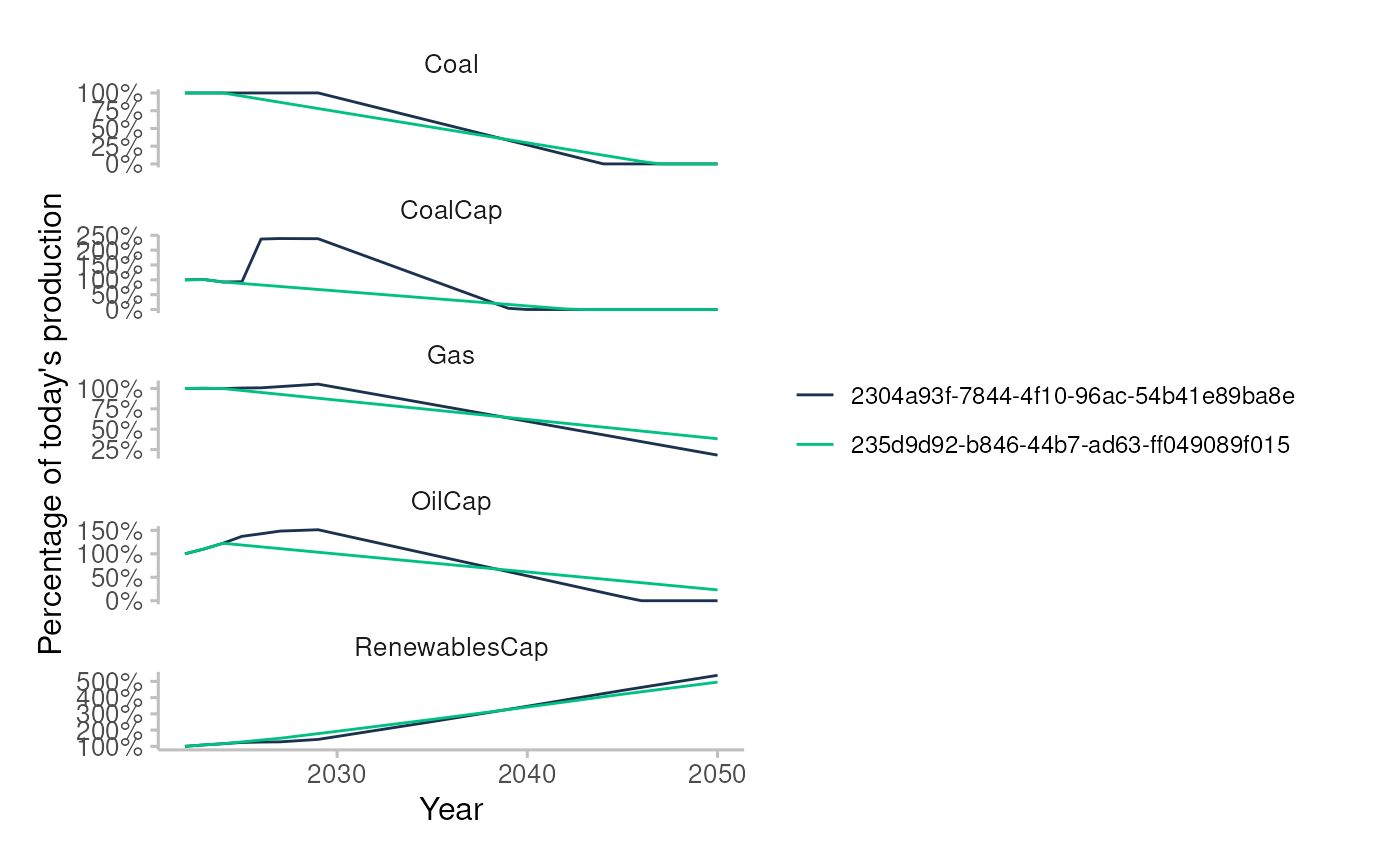
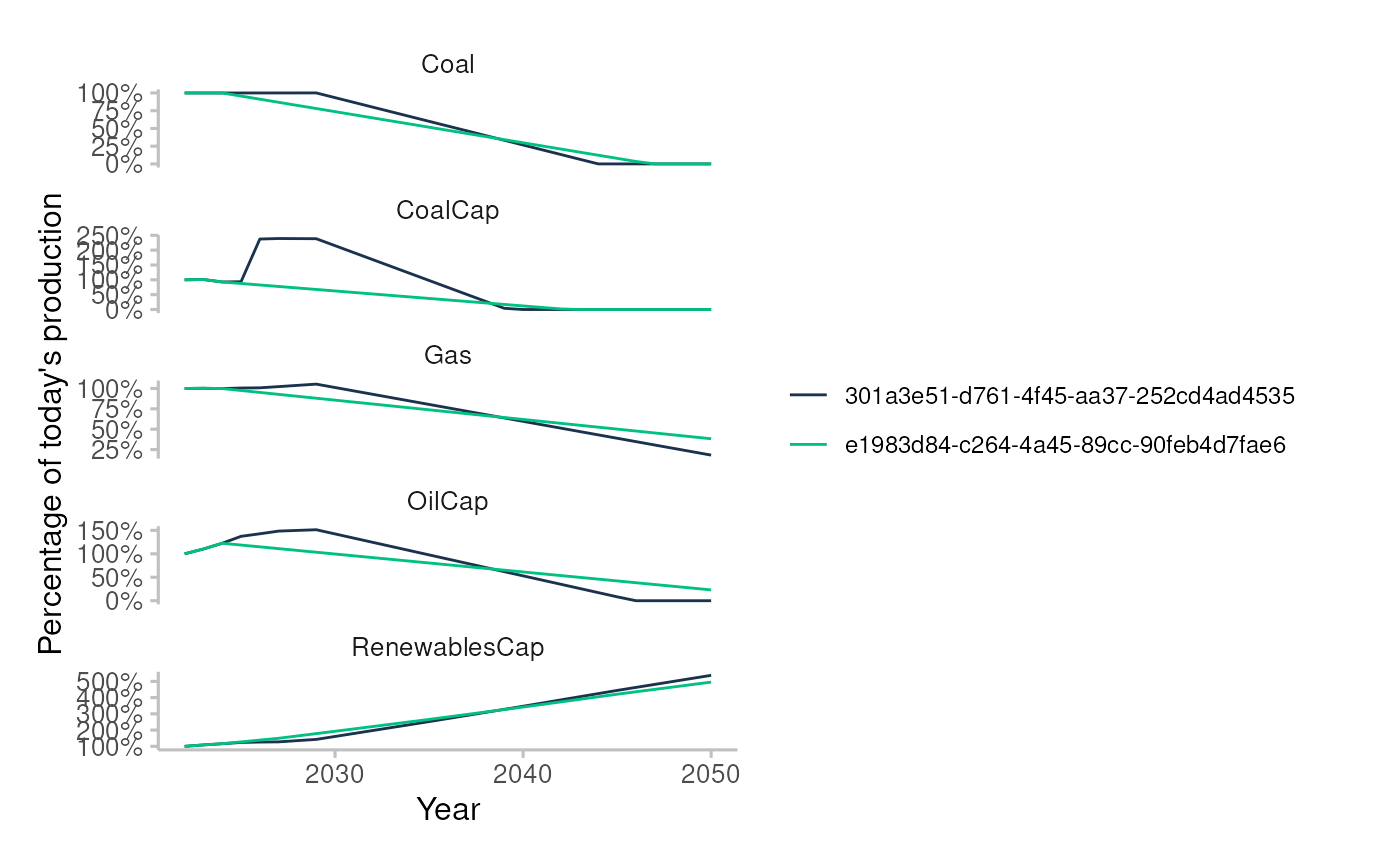
Deploying to gh-pages from @ Theia-Finance-Labs/trisk.analysis@0ec51dd83943d43b5f27f19785c3f9c803c0d23a 🚀

diff --git a/articles/run-country-sensitivity-analysis.html b/articles/run-country-sensitivity-analysis.html
@@ -166,7 +166,7 @@ net_present_value_shock
 <tbody>
 <tr>
 <td style="text-align:left;">
-2304a93f-7844-4f10-96ac-54b41e89ba8e
+301a3e51-d761-4f45-aa37-252cd4ad4535
 </td>
 <td style="text-align:right;">
 101
@@ -195,7 +195,7 @@ Gas
 </tr>
 <tr>
 <td style="text-align:left;">
-2304a93f-7844-4f10-96ac-54b41e89ba8e
+301a3e51-d761-4f45-aa37-252cd4ad4535
 </td>
 <td style="text-align:right;">
 102
@@ -224,7 +224,7 @@ Coal
 </tr>
 <tr>
 <td style="text-align:left;">
-2304a93f-7844-4f10-96ac-54b41e89ba8e
+301a3e51-d761-4f45-aa37-252cd4ad4535
 </td>
 <td style="text-align:right;">
 103
@@ -253,7 +253,7 @@ Gas
 </tr>
 <tr>
 <td style="text-align:left;">
-2304a93f-7844-4f10-96ac-54b41e89ba8e
+301a3e51-d761-4f45-aa37-252cd4ad4535
 </td>
 <td style="text-align:right;">
 104
@@ -282,7 +282,7 @@ RenewablesCap
 </tr>
 <tr>
 <td style="text-align:left;">
-2304a93f-7844-4f10-96ac-54b41e89ba8e
+301a3e51-d761-4f45-aa37-252cd4ad4535
 </td>
 <td style="text-align:right;">
 105
@@ -311,7 +311,7 @@ CoalCap
 </tr>
 <tr>
 <td style="text-align:left;">
-2304a93f-7844-4f10-96ac-54b41e89ba8e
+301a3e51-d761-4f45-aa37-252cd4ad4535
 </td>
 <td style="text-align:right;">
 105
@@ -374,7 +374,7 @@ pd_shock
 <tbody>
 <tr>
 <td style="text-align:left;">
-2304a93f-7844-4f10-96ac-54b41e89ba8e
+301a3e51-d761-4f45-aa37-252cd4ad4535
 </td>
 <td style="text-align:right;">
 101
@@ -397,7 +397,7 @@ Oil&amp;Gas
 </tr>
 <tr>
 <td style="text-align:left;">
-2304a93f-7844-4f10-96ac-54b41e89ba8e
+301a3e51-d761-4f45-aa37-252cd4ad4535
 </td>
 <td style="text-align:right;">
 101
@@ -420,7 +420,7 @@ Oil&amp;Gas
 </tr>
 <tr>
 <td style="text-align:left;">
-2304a93f-7844-4f10-96ac-54b41e89ba8e
+301a3e51-d761-4f45-aa37-252cd4ad4535
 </td>
 <td style="text-align:right;">
 101
@@ -443,7 +443,7 @@ Oil&amp;Gas
 </tr>
 <tr>
 <td style="text-align:left;">
-2304a93f-7844-4f10-96ac-54b41e89ba8e
+301a3e51-d761-4f45-aa37-252cd4ad4535
 </td>
 <td style="text-align:right;">
 101
@@ -466,7 +466,7 @@ Oil&amp;Gas
 </tr>
 <tr>
 <td style="text-align:left;">
-2304a93f-7844-4f10-96ac-54b41e89ba8e
+301a3e51-d761-4f45-aa37-252cd4ad4535
 </td>
 <td style="text-align:right;">
 101
@@ -489,7 +489,7 @@ Oil&amp;Gas
 </tr>
 <tr>
 <td style="text-align:left;">
-2304a93f-7844-4f10-96ac-54b41e89ba8e
+301a3e51-d761-4f45-aa37-252cd4ad4535
 </td>
 <td style="text-align:right;">
 102
@@ -591,7 +591,7 @@ discounted_net_profits_shock_scenario
 <tbody>
 <tr>
 <td style="text-align:left;">
-2304a93f-7844-4f10-96ac-54b41e89ba8e
+301a3e51-d761-4f45-aa37-252cd4ad4535
 </td>
 <td style="text-align:right;">
 101
@@ -659,7 +659,7 @@ Gas
 </tr>
 <tr>
 <td style="text-align:left;">
-2304a93f-7844-4f10-96ac-54b41e89ba8e
+301a3e51-d761-4f45-aa37-252cd4ad4535
 </td>
 <td style="text-align:right;">
 101
@@ -727,7 +727,7 @@ Gas
 </tr>
 <tr>
 <td style="text-align:left;">
-2304a93f-7844-4f10-96ac-54b41e89ba8e
+301a3e51-d761-4f45-aa37-252cd4ad4535
 </td>
 <td style="text-align:right;">
 101
@@ -795,7 +795,7 @@ Gas
 </tr>
 <tr>
 <td style="text-align:left;">
-2304a93f-7844-4f10-96ac-54b41e89ba8e
+301a3e51-d761-4f45-aa37-252cd4ad4535
 </td>
 <td style="text-align:right;">
 101
@@ -863,7 +863,7 @@ Gas
 </tr>
 <tr>
 <td style="text-align:left;">
-2304a93f-7844-4f10-96ac-54b41e89ba8e
+301a3e51-d761-4f45-aa37-252cd4ad4535
 </td>
 <td style="text-align:right;">
 101
@@ -931,7 +931,7 @@ Gas
 </tr>
 <tr>
 <td style="text-align:left;">
-2304a93f-7844-4f10-96ac-54b41e89ba8e
+301a3e51-d761-4f45-aa37-252cd4ad4535
 </td>
 <td style="text-align:right;">
 101
@@ -1075,7 +1075,7 @@ no_carbon_tax
 0
 </td>
 <td style="text-align:left;">
-2304a93f-7844-4f10-96ac-54b41e89ba8e
+301a3e51-d761-4f45-aa37-252cd4ad4535
 </td>
 </tr>
 <tr>
@@ -1110,7 +1110,7 @@ no_carbon_tax
 0
 </td>
 <td style="text-align:left;">
-235d9d92-b846-44b7-ad63-ff049089f015
+e1983d84-c264-4a45-89cc-90feb4d7fae6
 </td>
 </tr>
 </tbody>

diff --git a/articles/apply-stress-test-on-portfolio.html b/articles/apply-stress-test-on-portfolio.html
@@ -324,7 +324,7 @@ DE
 101
 </td>
 <td style="text-align:left;">
-46d1b9eb-1d94-4613-8bdd-4241809fc317
+da6d9260-fb28-467b-9097-68da89cbb58a
 </td>
 <td style="text-align:left;">
 101
@@ -371,7 +371,7 @@ DE
 102
 </td>
 <td style="text-align:left;">
-46d1b9eb-1d94-4613-8bdd-4241809fc317
+da6d9260-fb28-467b-9097-68da89cbb58a
 </td>
 <td style="text-align:left;">
 102
@@ -465,7 +465,7 @@ DE
 104
 </td>
 <td style="text-align:left;">
-46d1b9eb-1d94-4613-8bdd-4241809fc317
+da6d9260-fb28-467b-9097-68da89cbb58a
 </td>
 <td style="text-align:left;">
 104
